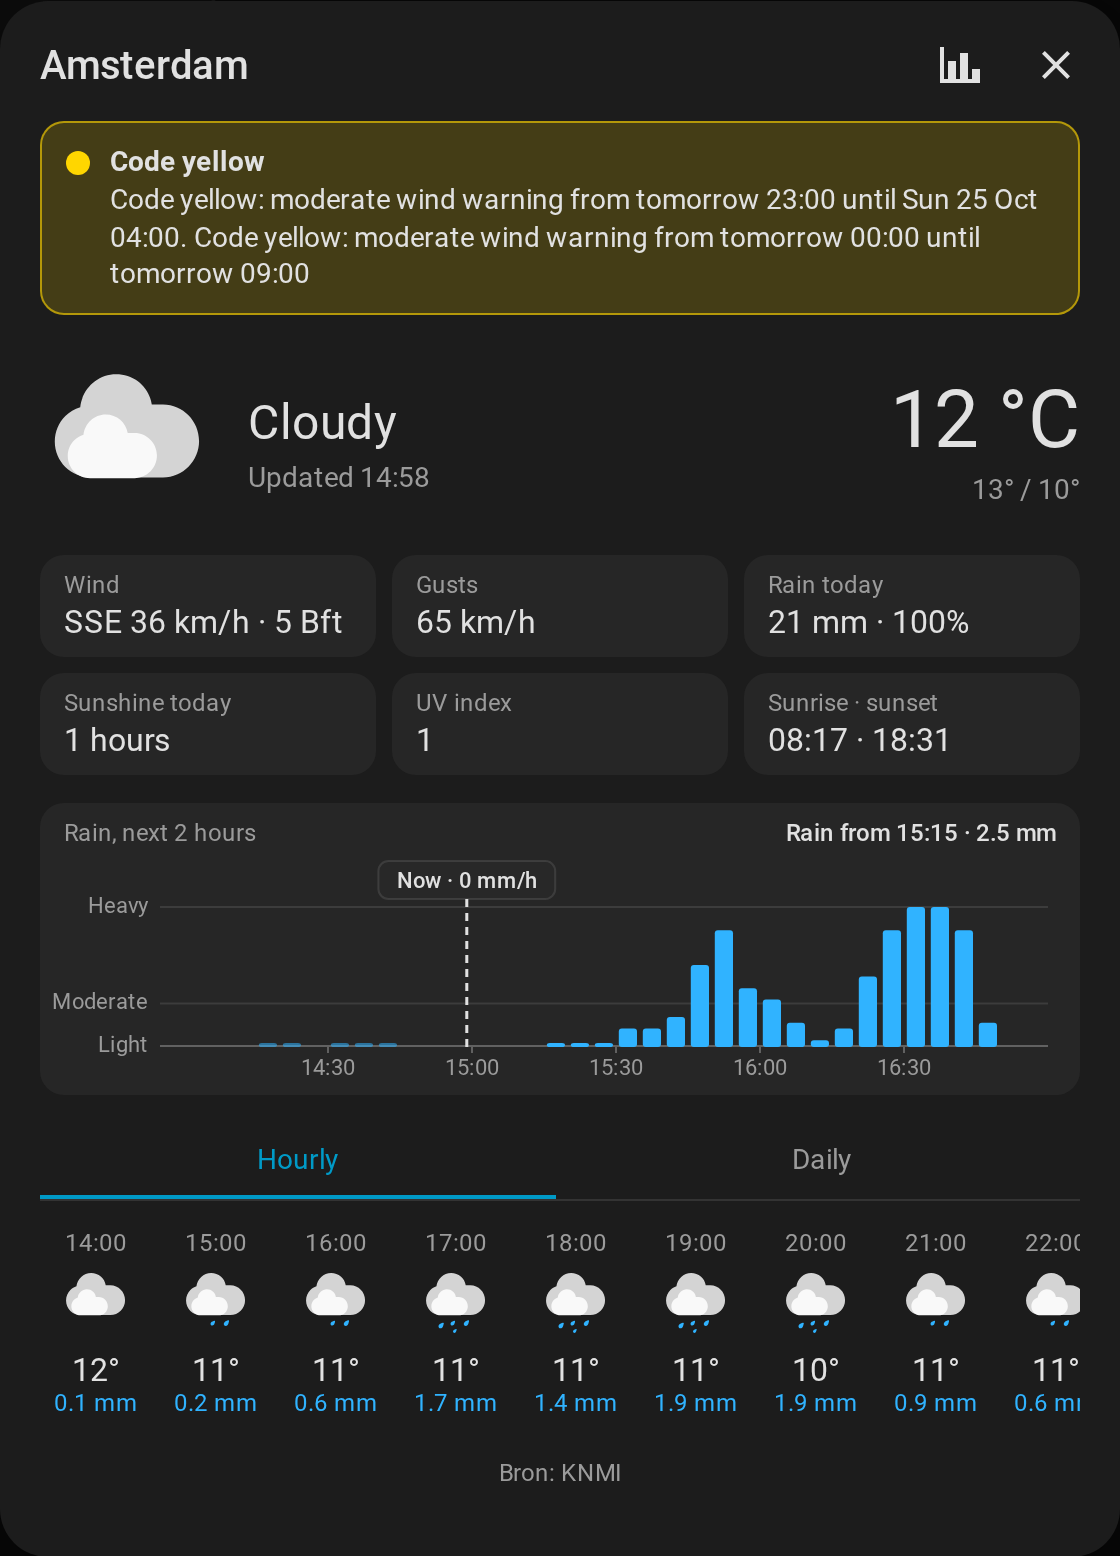
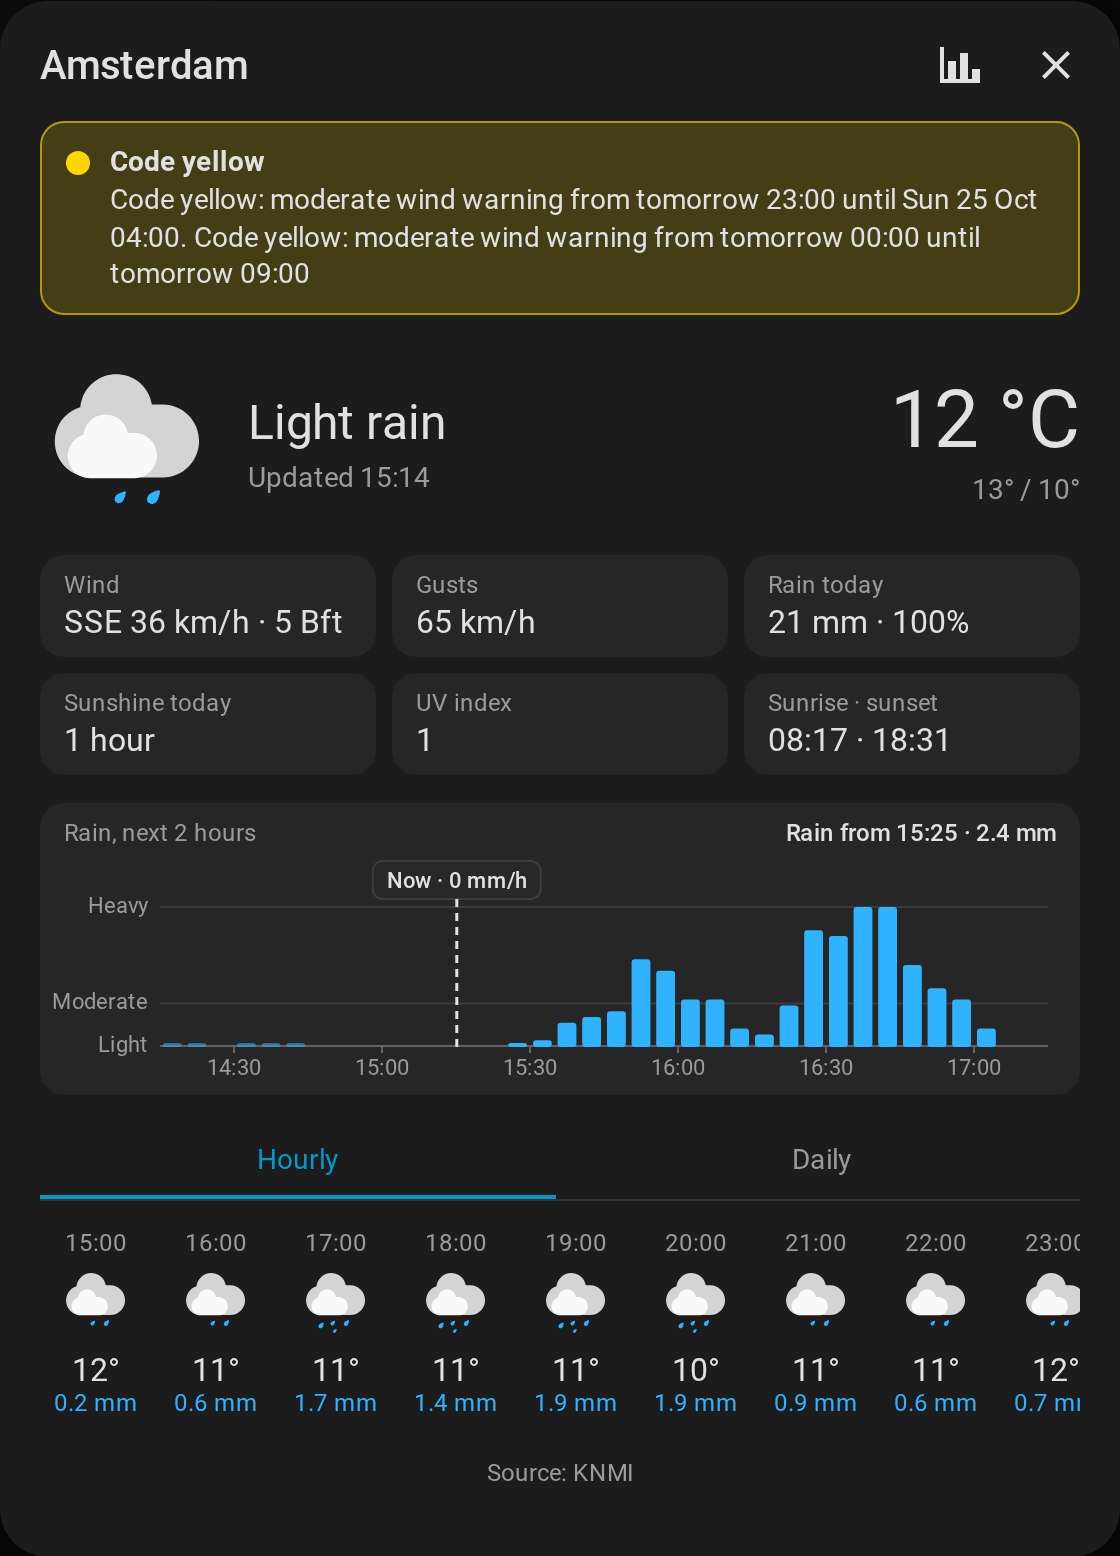
English like Dutch: KNMI weather texts, rain summary, warnings (1.5.5)
- With an English Home Assistant the card and popup show the KNMI
  weather text in English ("Light rain") instead of the general
  condition ("Rainy"), like the Dutch "Lichte regen".
- The rain graph measures its texts instead of estimating their width,
  so the summary keeps the amount whenever it fits.
- The popup says "1 hour" and "Source: KNMI" in English.
- English warnings are listed by level and then in time order, like
  the KNMI's Dutch texts.
- README pictures retaken with these changes.

diff --git a/custom_components/weerbericht/frontend/weerbericht-card.js b/custom_components/weerbericht/frontend/weerbericht-card.js
@@ -36,7 +36,7 @@ const P = {
   "bolt": "m 9.9252695,10.935875 -1.6483986,2.341014 1.1170184,0.05929 -1.2169864,2.02141 3.0450261,-2.616159 H 9.8864918 L 10.97937,11.294651 10.700323,10.79794 h -0.508706 l -0.2663475,0.137936"
 };
 
-const CARD_VERSION = "1.5.4";
+const CARD_VERSION = "1.5.5";
 
 // KNMI app weather type -> [sky, precipitation, lightning, night]
 //   sky: sun | moon | part | cloud | fog | windy
@@ -110,6 +110,45 @@ function iconSVG(spec, night) {
   out += precipitation(precip);
   if (bolt) out += path("sun", P.bolt);
   return `<svg xmlns="http://www.w3.org/2000/svg" viewBox="0 0 17 17">${out}</svg>`;
+}
+
+// The KNMI weather texts in English (the integration's weather_text is Dutch),
+// by KNMI weather type, so an English dashboard says "Light rain" like the
+// Dutch one says "Lichte regen" instead of Home Assistant's general "Rainy".
+const WEATHER_TEXT_EN = {
+  1372: "Sunny", 1373: "Clear", 1374: "Overcast", 1375: "Partly cloudy", 1376: "Partly cloudy",
+  1377: "Light rain", 1378: "Moderate rain", 1379: "Heavy rain",
+  1380: "Light shower with sunny intervals", 1381: "Light shower with sunny intervals",
+  1382: "Moderate shower with sunny intervals", 1383: "Moderate shower with sunny intervals",
+  1384: "Heavy shower with sunny intervals", 1385: "Heavy shower with sunny intervals",
+  1386: "Drizzle", 1387: "Drizzle with bright spells", 1388: "Drizzle with bright spells",
+  1389: "Thunderstorm with moderate rain", 1390: "Thunderstorm with heavy rain",
+  1391: "Thunderstorm with moderate rain and sunny intervals", 1392: "Thunderstorm with moderate rain and sunny intervals",
+  1393: "Thunderstorm with heavy rain and sunny intervals", 1394: "Thunderstorm with heavy rain and sunny intervals",
+  1395: "Thunderstorm with hail", 1396: "Thunderstorm with hail and sunny intervals", 1397: "Thunderstorm with hail and sunny intervals",
+  1398: "Wintry showers with thunder", 1399: "Wintry showers with thunder and sunny intervals", 1400: "Wintry showers with thunder and sunny intervals",
+  1401: "Snow shower with thunder", 1402: "Snow shower with thunder and sunny intervals", 1403: "Snow shower with thunder and sunny intervals",
+  1404: "Light snow shower", 1405: "Light snow shower with sunny intervals", 1406: "Light snow shower with sunny intervals",
+  1407: "Moderate snow shower", 1408: "Moderate snow shower with sunny intervals", 1409: "Moderate snow shower with sunny intervals",
+  1410: "Heavy snow shower", 1411: "Heavy snow shower with sunny intervals", 1412: "Heavy snow shower with sunny intervals",
+  1413: "Sleet shower", 1414: "Sleet shower with sunny intervals", 1415: "Sleet shower with sunny intervals",
+  1416: "Hail shower", 1417: "Hail shower with sunny intervals", 1418: "Hail shower with sunny intervals",
+  1419: "Freezing rain", 1420: "Fog", 1421: "Fog", 1422: "Fog",
+  1423: "Wind gusts", 1424: "Strong wind", 1425: "Strong wind",
+};
+
+// Width of a text in the card's font, for the rain graph's labels. Falls back
+// to an estimate where there is no canvas.
+let textCanvas = null;
+function textWidth(text, px, weight = 400) {
+  try {
+    textCanvas = textCanvas || document.createElement("canvas").getContext("2d");
+    const family = getComputedStyle(document.body).fontFamily || "Roboto, sans-serif";
+    textCanvas.font = `${weight} ${px}px ${family}`;
+    return textCanvas.measureText(text).width;
+  } catch (_err) {
+    return text.length * px * 0.56;
+  }
 }
 
 function iconFor(code, condition, night) {
@@ -556,13 +595,13 @@ function rainChart(hass, pts, w, h, opts = {}) {
     out += `<line class="mark" x1="${mx.toFixed(1)}" x2="${mx.toFixed(1)}" y1="20" y2="${base}"/>`;
   }
   const label = `${opts.cursor != null ? fmtTime(hass, pts[idx].t) : nl ? "Nu" : "Now"} · ${fmtNum(hass, pts[idx].v, 1)} ${nl ? "mm/u" : "mm/h"}`;
-  const bw = label.length * 6.2 + 14;
+  const bw = textWidth(label, 11, 500) + 14;
   const bx = Math.min(w - bw, Math.max(0, mx - bw / 2));
   // Summary on the right of the top line: shortened (without the amount) or
   // left out when it would run into the value box.
   if (opts.summary) {
     const room = g.l + g.cw - (bx + bw) - 8;
-    const fits = (text) => text.length * 6.6 <= room;
+    const fits = (text) => textWidth(text, 12) <= room;
     const short = opts.summary.split(" · ")[0];
     const text = fits(opts.summary) ? opts.summary : fits(short) ? short : "";
     if (text) out += `<text class="sum" x="${g.l + g.cw}" y="14" text-anchor="end">${esc(text)}</text>`;
@@ -796,6 +835,7 @@ ${(err && err.stack) || ""}`,
     const cond = a.raw_condition || stateObj.state;
     const lang = this._hass.locale?.language || this._hass.language || "en";
     if (lang.startsWith("nl") && a.weather_text) return a.weather_text;
+    if (!lang.startsWith("nl") && WEATHER_TEXT_EN[a.weather_type]) return WEATHER_TEXT_EN[a.weather_type];
     const key = `component.weather.entity_component._.state.${cond}`;
     return this._hass.localize(key) || this._hass.formatEntityState?.(stateObj) || cond;
   }
@@ -931,7 +971,7 @@ ${(err && err.stack) || ""}`,
       detail("Wind", a.wind_speed != null ? `${esc(dir)} ${this._fmt(a.wind_speed, 0)} km/h${a.beaufort != null ? ` · ${a.beaufort} Bft` : ""}` : ""),
       detail(T("Gusts", "Windstoten"), a.wind_gust_speed != null ? `${this._fmt(a.wind_gust_speed, 0)} km/h` : ""),
       detail(T("Rain today", "Neerslag vandaag"), rainToday),
-      detail(T("Sunshine today", "Zon vandaag"), a.sunshine_hours_today != null ? `${this._fmt(a.sunshine_hours_today, 0)} ${T("hours", "uur")}` : ""),
+      detail(T("Sunshine today", "Zon vandaag"), a.sunshine_hours_today != null ? `${this._fmt(a.sunshine_hours_today, 0)} ${Math.round(Number(a.sunshine_hours_today)) === 1 ? T("hour", "uur") : T("hours", "uur")}` : ""),
       detail(T("UV index", "UV-index"), a.uv_index != null ? esc(String(a.uv_index)) : ""),
       detail(T("Sunrise · sunset", "Zon op · onder"), a.sunrise ? `${this._time(a.sunrise)} · ${this._time(a.sunset)}` : ""),
     ].join("");
@@ -995,7 +1035,7 @@ ${(err && err.stack) || ""}`,
           <div class="tabs"><button class="tab${pop.tab === "hourly" ? " on" : ""}" data-tab="hourly">${T("Hourly", "Per uur")}</button>
             <button class="tab${pop.tab === "daily" ? " on" : ""}" data-tab="daily">${T("Daily", "Per dag")}</button></div>
           ${list}
-          <div class="foot">${esc(a.attribution || "Bron: KNMI")}</div>
+          <div class="foot">${esc(!a.attribution || a.attribution === "Bron: KNMI" ? T("Source: KNMI", "Bron: KNMI") : a.attribution)}</div>
         </div></div></div>`;
     const root = pop.host.shadowRoot;
     const sc = root.querySelector(".scroll");

diff --git a/tools/weerbericht-card.template.js b/tools/weerbericht-card.template.js
@@ -88,6 +88,45 @@ function iconSVG(spec, night) {
   return `<svg xmlns="http://www.w3.org/2000/svg" viewBox="0 0 17 17">${out}</svg>`;
 }
 
+// The KNMI weather texts in English (the integration's weather_text is Dutch),
+// by KNMI weather type, so an English dashboard says "Light rain" like the
+// Dutch one says "Lichte regen" instead of Home Assistant's general "Rainy".
+const WEATHER_TEXT_EN = {
+  1372: "Sunny", 1373: "Clear", 1374: "Overcast", 1375: "Partly cloudy", 1376: "Partly cloudy",
+  1377: "Light rain", 1378: "Moderate rain", 1379: "Heavy rain",
+  1380: "Light shower with sunny intervals", 1381: "Light shower with sunny intervals",
+  1382: "Moderate shower with sunny intervals", 1383: "Moderate shower with sunny intervals",
+  1384: "Heavy shower with sunny intervals", 1385: "Heavy shower with sunny intervals",
+  1386: "Drizzle", 1387: "Drizzle with bright spells", 1388: "Drizzle with bright spells",
+  1389: "Thunderstorm with moderate rain", 1390: "Thunderstorm with heavy rain",
+  1391: "Thunderstorm with moderate rain and sunny intervals", 1392: "Thunderstorm with moderate rain and sunny intervals",
+  1393: "Thunderstorm with heavy rain and sunny intervals", 1394: "Thunderstorm with heavy rain and sunny intervals",
+  1395: "Thunderstorm with hail", 1396: "Thunderstorm with hail and sunny intervals", 1397: "Thunderstorm with hail and sunny intervals",
+  1398: "Wintry showers with thunder", 1399: "Wintry showers with thunder and sunny intervals", 1400: "Wintry showers with thunder and sunny intervals",
+  1401: "Snow shower with thunder", 1402: "Snow shower with thunder and sunny intervals", 1403: "Snow shower with thunder and sunny intervals",
+  1404: "Light snow shower", 1405: "Light snow shower with sunny intervals", 1406: "Light snow shower with sunny intervals",
+  1407: "Moderate snow shower", 1408: "Moderate snow shower with sunny intervals", 1409: "Moderate snow shower with sunny intervals",
+  1410: "Heavy snow shower", 1411: "Heavy snow shower with sunny intervals", 1412: "Heavy snow shower with sunny intervals",
+  1413: "Sleet shower", 1414: "Sleet shower with sunny intervals", 1415: "Sleet shower with sunny intervals",
+  1416: "Hail shower", 1417: "Hail shower with sunny intervals", 1418: "Hail shower with sunny intervals",
+  1419: "Freezing rain", 1420: "Fog", 1421: "Fog", 1422: "Fog",
+  1423: "Wind gusts", 1424: "Strong wind", 1425: "Strong wind",
+};
+
+// Width of a text in the card's font, for the rain graph's labels. Falls back
+// to an estimate where there is no canvas.
+let textCanvas = null;
+function textWidth(text, px, weight = 400) {
+  try {
+    textCanvas = textCanvas || document.createElement("canvas").getContext("2d");
+    const family = getComputedStyle(document.body).fontFamily || "Roboto, sans-serif";
+    textCanvas.font = `${weight} ${px}px ${family}`;
+    return textCanvas.measureText(text).width;
+  } catch (_err) {
+    return text.length * px * 0.56;
+  }
+}
+
 function iconFor(code, condition, night) {
   const spec = T[code] || BY_CONDITION[condition] || ["cloud"];
   return iconSVG(spec, night);
@@ -532,13 +571,13 @@ function rainChart(hass, pts, w, h, opts = {}) {
     out += `<line class="mark" x1="${mx.toFixed(1)}" x2="${mx.toFixed(1)}" y1="20" y2="${base}"/>`;
   }
   const label = `${opts.cursor != null ? fmtTime(hass, pts[idx].t) : nl ? "Nu" : "Now"} · ${fmtNum(hass, pts[idx].v, 1)} ${nl ? "mm/u" : "mm/h"}`;
-  const bw = label.length * 6.2 + 14;
+  const bw = textWidth(label, 11, 500) + 14;
   const bx = Math.min(w - bw, Math.max(0, mx - bw / 2));
   // Summary on the right of the top line: shortened (without the amount) or
   // left out when it would run into the value box.
   if (opts.summary) {
     const room = g.l + g.cw - (bx + bw) - 8;
-    const fits = (text) => text.length * 6.6 <= room;
+    const fits = (text) => textWidth(text, 12) <= room;
     const short = opts.summary.split(" · ")[0];
     const text = fits(opts.summary) ? opts.summary : fits(short) ? short : "";
     if (text) out += `<text class="sum" x="${g.l + g.cw}" y="14" text-anchor="end">${esc(text)}</text>`;
@@ -772,6 +811,7 @@ ${(err && err.stack) || ""}`,
     const cond = a.raw_condition || stateObj.state;
     const lang = this._hass.locale?.language || this._hass.language || "en";
     if (lang.startsWith("nl") && a.weather_text) return a.weather_text;
+    if (!lang.startsWith("nl") && WEATHER_TEXT_EN[a.weather_type]) return WEATHER_TEXT_EN[a.weather_type];
     const key = `component.weather.entity_component._.state.${cond}`;
     return this._hass.localize(key) || this._hass.formatEntityState?.(stateObj) || cond;
   }
@@ -907,7 +947,7 @@ ${(err && err.stack) || ""}`,
       detail("Wind", a.wind_speed != null ? `${esc(dir)} ${this._fmt(a.wind_speed, 0)} km/h${a.beaufort != null ? ` · ${a.beaufort} Bft` : ""}` : ""),
       detail(T("Gusts", "Windstoten"), a.wind_gust_speed != null ? `${this._fmt(a.wind_gust_speed, 0)} km/h` : ""),
       detail(T("Rain today", "Neerslag vandaag"), rainToday),
-      detail(T("Sunshine today", "Zon vandaag"), a.sunshine_hours_today != null ? `${this._fmt(a.sunshine_hours_today, 0)} ${T("hours", "uur")}` : ""),
+      detail(T("Sunshine today", "Zon vandaag"), a.sunshine_hours_today != null ? `${this._fmt(a.sunshine_hours_today, 0)} ${Math.round(Number(a.sunshine_hours_today)) === 1 ? T("hour", "uur") : T("hours", "uur")}` : ""),
       detail(T("UV index", "UV-index"), a.uv_index != null ? esc(String(a.uv_index)) : ""),
       detail(T("Sunrise · sunset", "Zon op · onder"), a.sunrise ? `${this._time(a.sunrise)} · ${this._time(a.sunset)}` : ""),
     ].join("");
@@ -971,7 +1011,7 @@ ${(err && err.stack) || ""}`,
           <div class="tabs"><button class="tab${pop.tab === "hourly" ? " on" : ""}" data-tab="hourly">${T("Hourly", "Per uur")}</button>
             <button class="tab${pop.tab === "daily" ? " on" : ""}" data-tab="daily">${T("Daily", "Per dag")}</button></div>
           ${list}
-          <div class="foot">${esc(a.attribution || "Bron: KNMI")}</div>
+          <div class="foot">${esc(!a.attribution || a.attribution === "Bron: KNMI" ? T("Source: KNMI", "Bron: KNMI") : a.attribution)}</div>
         </div></div></div>`;
     const root = pop.host.shadowRoot;
     const sc = root.querySelector(".scroll");

diff --git a/custom_components/weerbericht/coordinator.py b/custom_components/weerbericht/coordinator.py
@@ -125,6 +125,7 @@ class WeerberichtCoordinator(DataUpdateCoordinator[dict[str, Any]]):
         now = dt_util.utcnow()
         today = dt_util.now().date()
         out: list[dict[str, str]] = []
+        starts: list[datetime] = []
         seen: set[tuple[str, str, str]] = set()
         for warning in feed.get("warnings", []):
             alert = warning.get("alert") or {}
@@ -166,6 +167,7 @@ class WeerberichtCoordinator(DataUpdateCoordinator[dict[str, Any]]):
                 if key in seen:
                     continue
                 seen.add(key)
+                starts.append(onset or expires)
                 out.append(
                     {
                         "level": level,
@@ -174,9 +176,10 @@ class WeerberichtCoordinator(DataUpdateCoordinator[dict[str, Any]]):
                         "details": str(info.get("description") or "").strip(),
                     }
                 )
+        # Highest level first, then in time order, like the KNMI's Dutch texts.
         order = {"red": 0, "orange": 1, "yellow": 2}
-        out.sort(key=lambda a: order[a["level"]])
-        return out
+        ranked = sorted(zip(out, starts), key=lambda pair: (order[pair[0]["level"]], pair[1]))
+        return [alert for alert, _ in ranked]
 
     def _reshape(
         self, summary: dict[str, Any], details: dict[str, dict[str, Any]]
